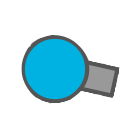
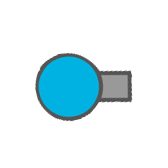
.

Changed region(s): [[0.1429, 0.2286, 0.8571, 0.7429]]

diff --git a/script/tank.js b/script/tank.js
@@ -6,19 +6,25 @@ class Tank{
         this.x = x;
         this.y = y;
         this.sprite = new Image();
+        this.spriteUp = new Image();
         this.sprite.src = 'img/Base_tank.png';
         this.level = 1;
-        this.speedX = 3;
-        this.speedY = 3;
+        this.speedX = 0;
+        this.speedY = 0;
+        this.direction =1;
+        this.bullets = new Array();
     }
     update(){
         this.x += this.speedX;
         this.y += this.speedY;
     }
     draw(context){
-        context.drawImage(this.sprite, this.x, this.y);
+        context.save();
+        context.translate(this.x, this.y);
+        context.rotate(this.rotate(mouseX, mouseY));
+        context.drawImage(this.sprite, 0, 0);
+        context.restore();
     }
-    //direction o day khac voi dir cua nong sung
     move(direction){
         switch (direction){
             case 1://up
@@ -26,30 +32,44 @@ class Tank{
                     this.speedY = -4;
                     this.speedX = 0;
                 }
-                //this.direction = 1;
+                this.direction = 1;
                 break;
             case 2://down
                 if(this.y <= window.innerHeight - 10){
                     this.speedY = 4;
                     this.speedX = 0;
                 }
-                //this.direction = 2;
+                this.direction = 2;
                 break;
             case 3://left
                 if(this.x >= 10){
                     this.speedX = -4;
                     this.speedY = 0;
                 }
-                //this.direction = 3;
+                this.direction = 3;
                 break;
             case 4://right
                 if (this.x <= window.innerWidth -10){
                     this.speedX = 4;
                     this.speedY = 0;
                 }
-                //  this.direction = 4;
+                 this.direction = 4;
                 break;
         }
     }
+    rotate(x1, y1){
+        var c1= Math.abs(y1- this.y);
+        var c2 = Math.sqrt((x1-this.x)*(x1-this.x) + (y1-this.y)*(y1-this.y))
+        if(x1 > this.x && y1 >this.y){  // truong hop goc phan tu thu 4
+            var res = Math.asin(c1/c2);
+            return res;
+        }
+        if(this.x > x1 && y1> this.y){
+            var res = Math.PI - Math.asin(c1/c2);;
+        }
 
+    }
+    shoot(){
+        var bullet = new Bullet(this.x + 30, this.y+30, t);
+    }
 }

diff --git a/script/game.js b/script/game.js
@@ -2,12 +2,14 @@
  * Created by keldeo on 29/05/2016.
  */
 var context;
+var mouseX, mouseY;
 window.onload = function () {
     var canvas = document.createElement("canvas");
     document.body.appendChild(canvas);
     context = canvas.getContext("2d");
     canvas.width = window.innerWidth;
     canvas.height = window.innerHeight;
+    document.body.addEventListener("mousemove", mouseMove, false);
     gameStart();
     setInterval(gameLoop, 17);
 };
@@ -31,6 +33,23 @@ function gameDrawer() {
     context.fillRect(0, 0, window.innerWidth, window.innerHeight);
     player.draw(context);
 }
+
+function mouseMove(e)
+{
+
+    if(e.offsetX) {
+        mouseX = e.offsetX;
+        mouseY = e.offsetY;
+    }
+    else if(e.layerX) {
+        mouseX = e.layerX;
+        mouseY = e.layerY;
+    }
+
+
+    /* do something with mouseX/mouseY */
+}
+
 window.onkeydown = function (e) {
     switch (e.keyCode){
         case 65://a
@@ -45,9 +64,9 @@ window.onkeydown = function (e) {
         case 87://w
             player.move(1);
             break;
-        // case 32: // dau cach
-        //     player.shot();
-        //     break;
+        case 32: // dau cach
+            player.shoot();
+            break;
     }
 };
 window.onkeyup = function (e) {

diff --git a/index.html b/index.html
@@ -1,4 +1,4 @@
-<!DOCTYPE html>
+    <!DOCTYPE html>
 <html lang="en">
 <head>
     <meta charset="UTF-8">
